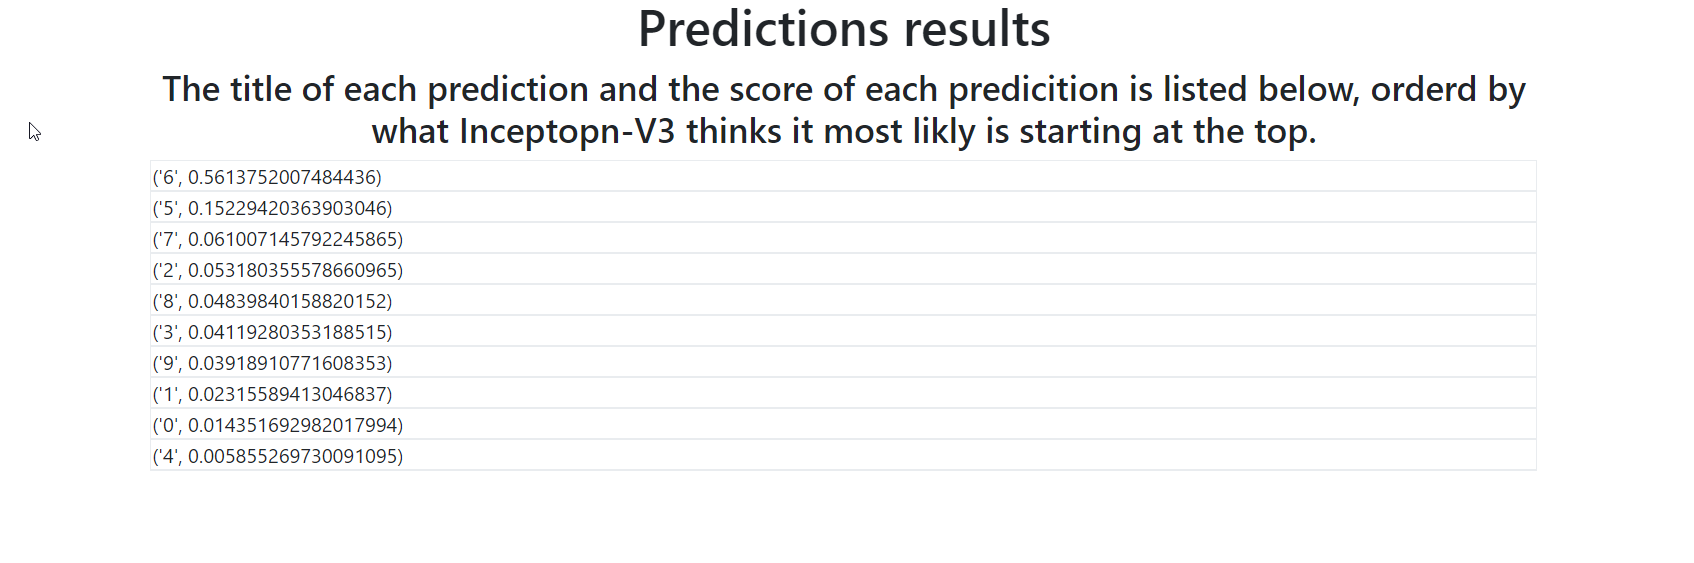
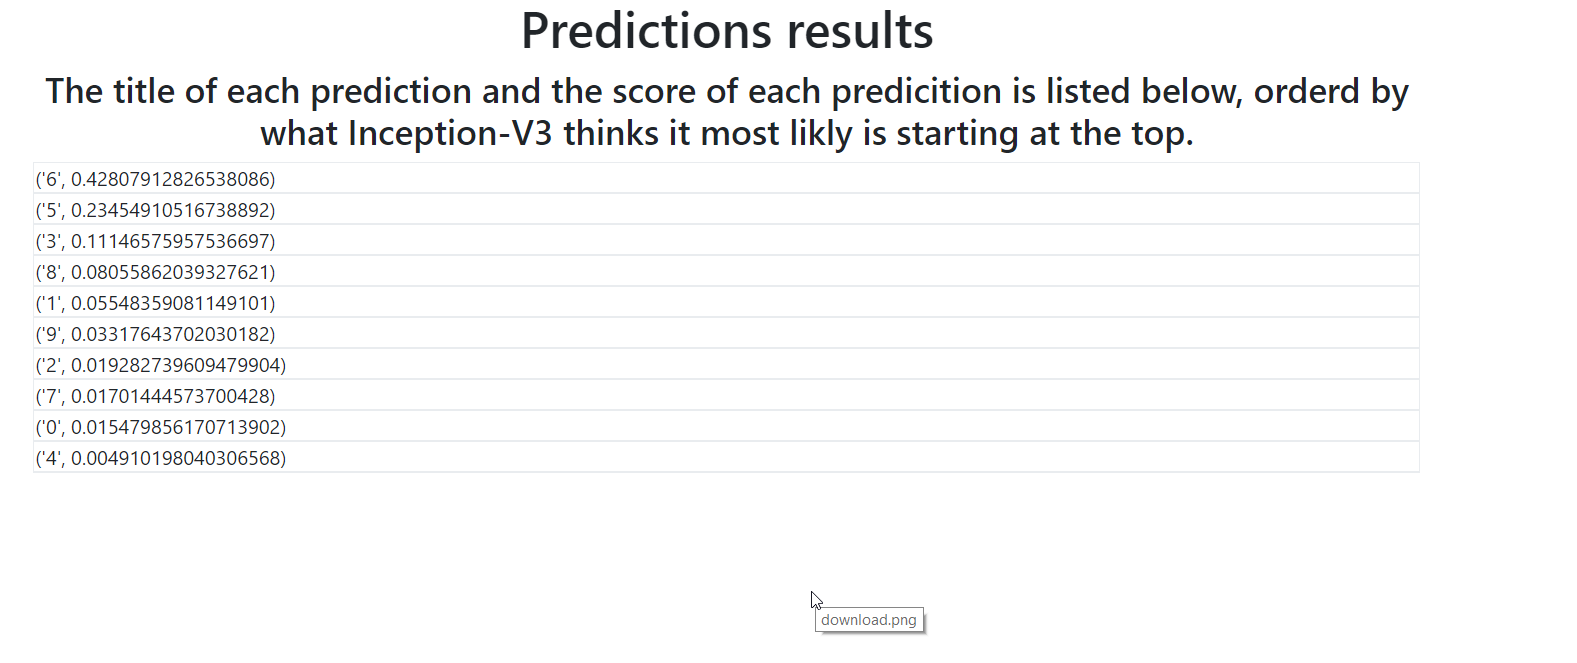
Image fixed

Changed region(s): [[0.0311, 0.1208, 0.9011, 0.8455], [0.3107, 0.0, 0.6214, 0.0906], [0.4971, 0.9059, 0.5904, 0.9663]]

diff --git a/templates/index.html b/templates/index.html
@@ -112,7 +112,7 @@
                 <div  class="container">
                         <div class="row" align="centre">
                         <h1 >Image Identifier</h1>
-                        <p class="lead">For Identifering Images and finding related information!</p>
+                        <p class="lead">For Identifying drawing and identifying digits and images!</p>
                         <p class="lead">Powered by..</p>
                         <div class="row">
                             <div class="col-md-2 col-md-offset-1">

diff --git a/templates/results.html b/templates/results.html
@@ -16,7 +16,7 @@
                 Predictions results
             </h1>
             <h3 class="text-center">
-                The title of each prediction and the score of each predicition is listed below, orderd by what Inceptopn-V3 thinks it most likly is starting at the top.
+                The title of each prediction and the score of each predicition is listed below, orderd by what Inception-V3 thinks it most likly is starting at the top.
             </h3>
         </div>
         <div id="predict-tables" class="col-md-12">
